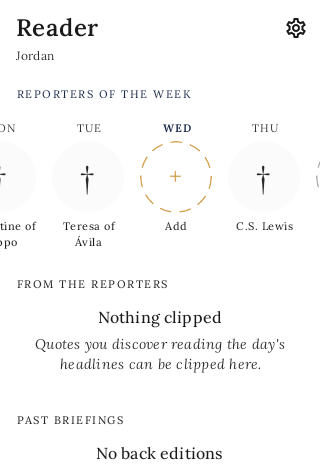
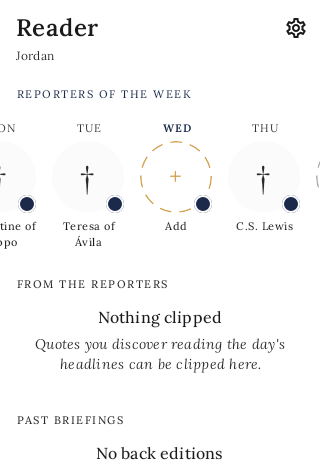
MS-707: Show headlines/Today badge on default roster rows

diff --git a/composeApp/src/commonMain/kotlin/com/mediasage/feature/you/ReaderScreen.kt b/composeApp/src/commonMain/kotlin/com/mediasage/feature/you/ReaderScreen.kt
@@ -379,14 +379,12 @@ internal fun DaySlotItem(
                     onSurfaceVariantColor = onSurfaceVariant,
                 )
             }
-            if (slot.assignedLens != null) {
-                LensBadge(
-                    lens = slot.assignedLens,
-                    modifier = Modifier
-                        .size(18.dp)
-                        .border(2.dp, MaterialTheme.colorScheme.surface, CircleShape),
-                )
-            }
+            LensBadge(
+                lens = slot.assignedLens ?: LensFilter.NEWS,
+                modifier = Modifier
+                    .size(18.dp)
+                    .border(2.dp, MaterialTheme.colorScheme.surface, CircleShape),
+            )
         }
 
         Text(
